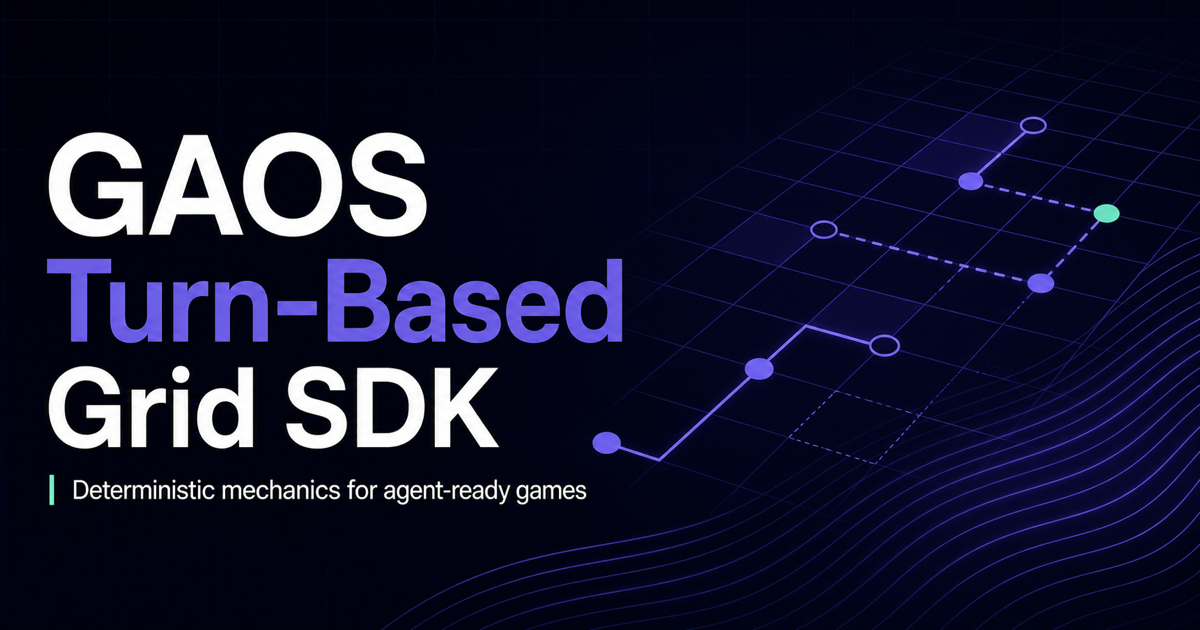
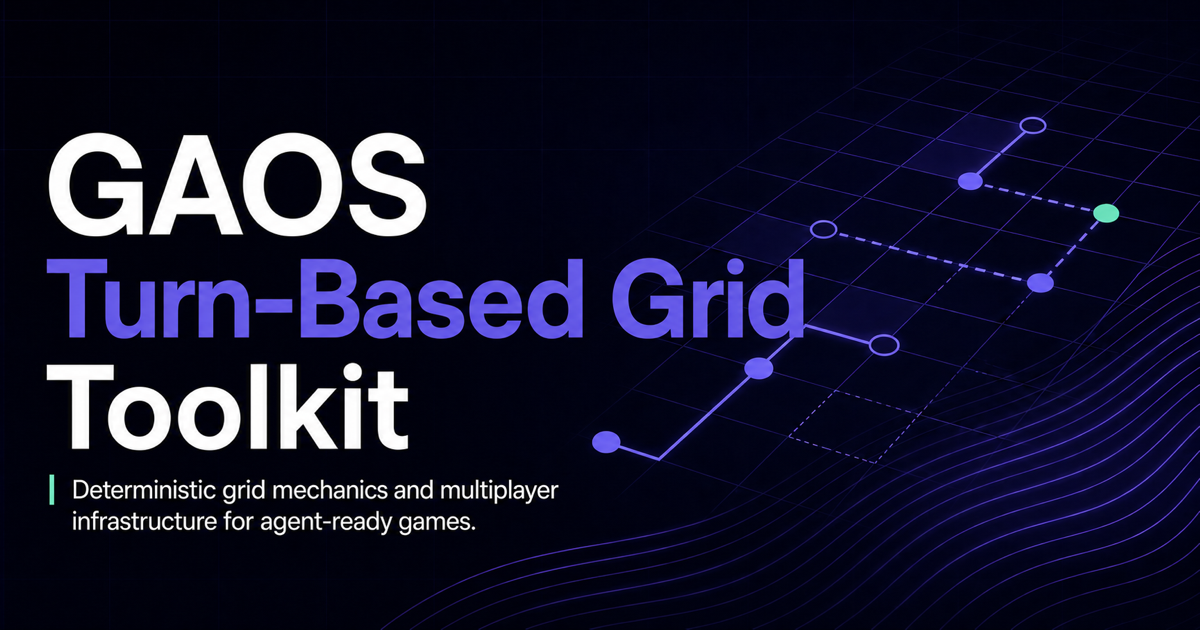
docs: brand grid toolkit as GAOS

diff --git a/README.md b/README.md
@@ -1,6 +1,11 @@
-# GAOS Turn-Based Grid SDK
+# GAOS Turn-Based Grid Toolkit
 
-An AI-native SDK for deterministic, turn-based grid environments. It provides
+GAOS stands for **Game Agentic Open SDK**.
+
+**Deterministic grid mechanics and multiplayer infrastructure for agent-ready
+games.**
+
+This AI-native toolkit provides
 TypeScript and Python clients for games hosted through the GAOS turn protocol,
 plus a reusable TypeScript engine and provider-neutral agent runtime. The
 repository contains six layers:

diff --git a/docs/index.md b/docs/index.md
@@ -2,9 +2,9 @@
 layout: home
 
 hero:
-  name: GAOS Turn-Based Grid SDK
-  text: Deterministic mechanics for agent-ready games
-  tagline: Build, solve, replay, and evaluate turn-based grid environments without coupling reusable rules to a particular campaign or renderer.
+  name: GAOS Turn-Based Grid Toolkit
+  text: Game Agentic Open SDK
+  tagline: Deterministic grid mechanics and multiplayer infrastructure for agent-ready games.
   actions:
     - theme: brand
       text: Start building

diff --git a/CONTRIBUTING.md b/CONTRIBUTING.md
@@ -1,6 +1,6 @@
 # Contributing
 
-Thanks for helping improve the GAOS Turn-Based Grid SDK.
+Thanks for helping improve the GAOS Turn-Based Grid Toolkit.
 
 ## Before opening a change
 

diff --git a/python/README.md b/python/README.md
@@ -1,4 +1,4 @@
-# GAOS Turn-Based Grid SDK for Python
+# GAOS Turn-Based Grid Toolkit for Python
 
 Gymnasium-style client for the AgiLabs Arena session API — the environment
 wrapper for the hosted Arena API.